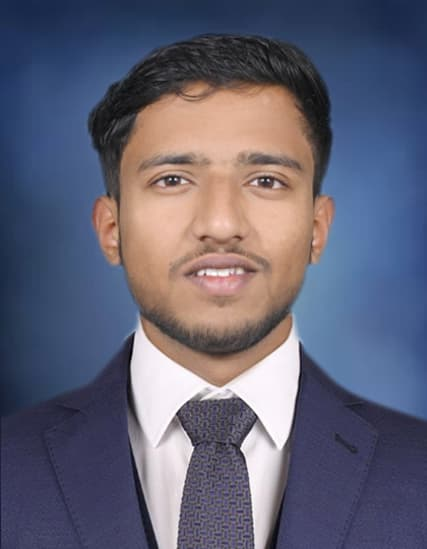
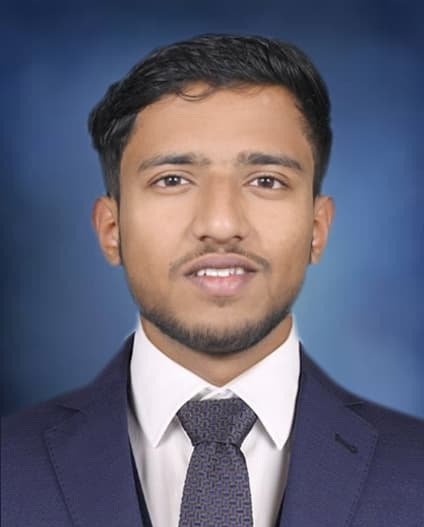
changes

diff --git a/pages/team.html b/pages/team.html
@@ -472,7 +472,7 @@
             <div class="role">Joint Treasurer</div>
         </div>
         <div class="team-member">
-            <img src="../assets/team/social-media.jpg" class="photo" alt="Sanika Patil">
+            <img src="../assets/Padmanish.jpeg" class="photo" alt="Sanika Patil">
             <div class="name">Sanika Patil</div>
             <div class="role">Social Media Coordinator</div>
         </div>
